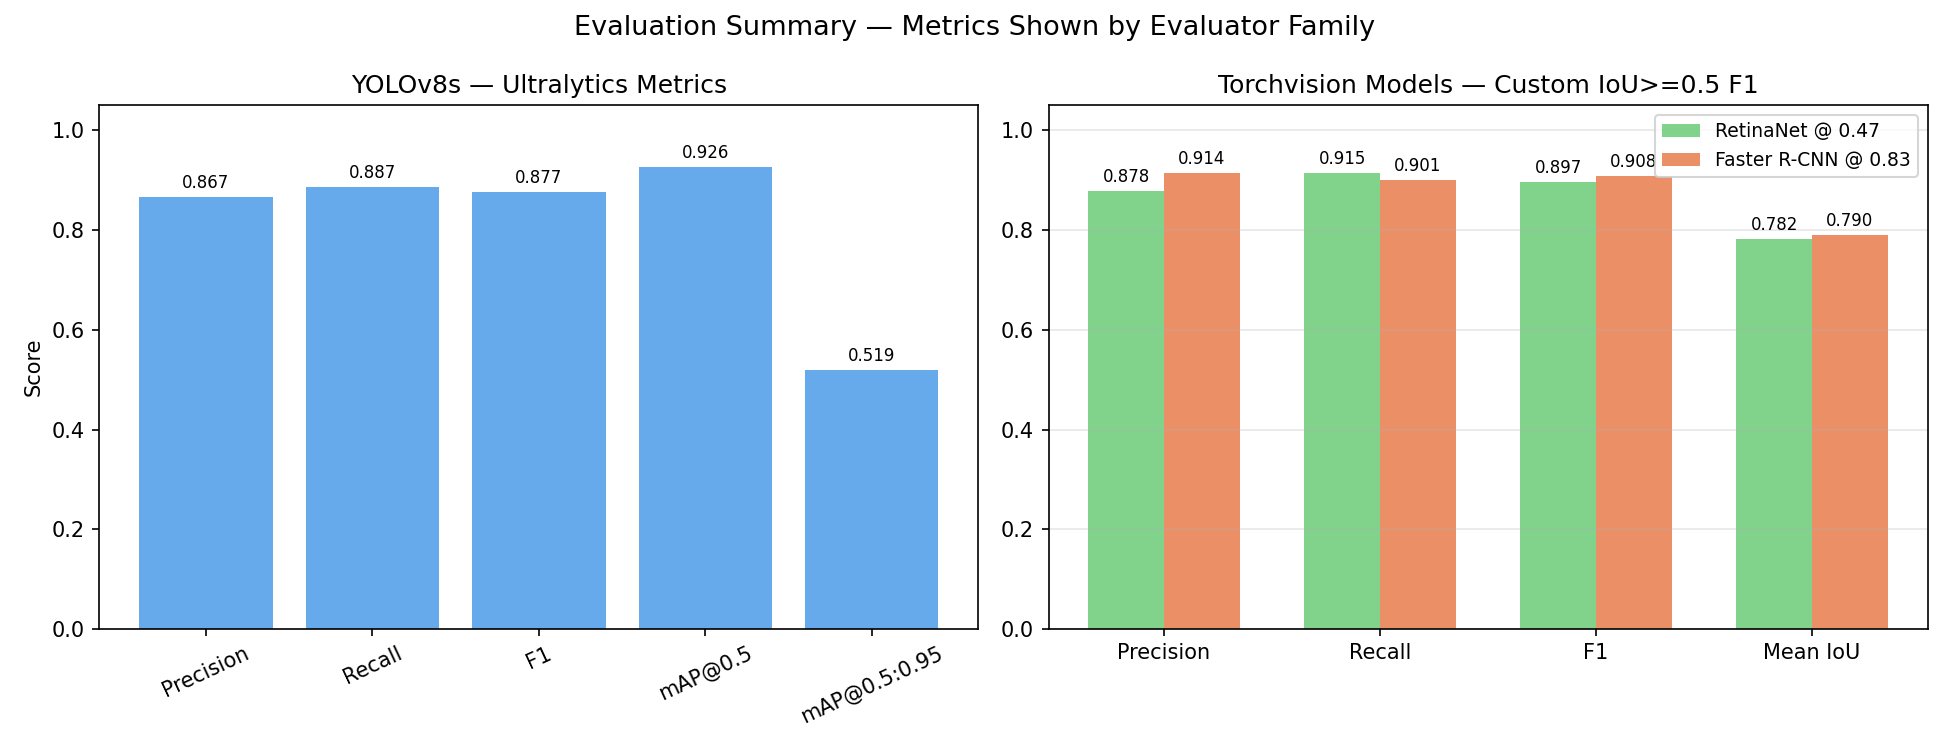
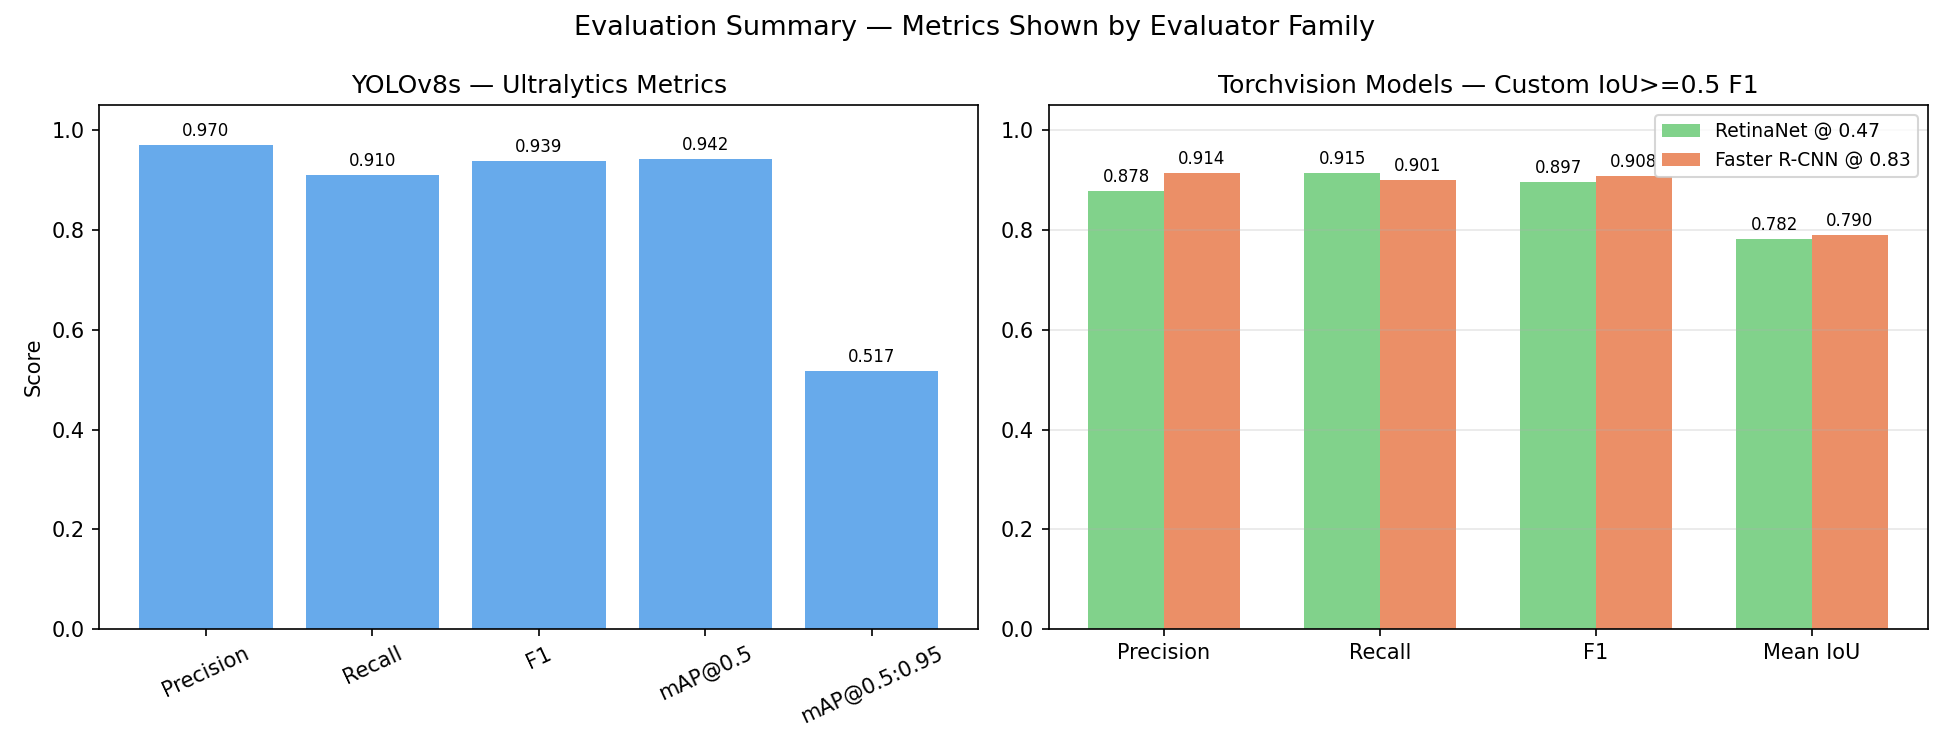
update yolo 960 evaluation results
Refresh README, notebook outputs, and metrics after retraining YOLOv8s at image size 960.

Made-with: Cursor

Changed region(s): [[0.0615, 0.1533, 0.4, 0.276], [0.4308, 0.46, 0.4615, 0.4907]]

diff --git a/README.md b/README.md
@@ -13,11 +13,11 @@ The strictest comparison path is `src/unified_evaluation.py`, which scores all t
 
 | Model | Val-Tuned Threshold | Test F1 | F1 95% CI | COCO AP | AP@0.5 | AP@0.75 | Mean IoU |
 |-------|---------------------|---------|-----------|---------|--------|---------|----------|
-| YOLOv8s | 0.6157 | 0.8741 | 0.8175-0.9291 | **0.5098** | 0.9164 | 0.5045 | 0.7947 |
-| Faster R-CNN ResNet50-FPN v2 | 0.8529 | **0.9000** | 0.8467-0.9496 | 0.4995 | **0.9602** | 0.4446 | **0.7941** |
+| YOLOv8s | 0.4798 | **0.9265** | 0.8806-0.9655 | **0.5114** | 0.9385 | 0.5187 | 0.7862 |
+| Faster R-CNN ResNet50-FPN v2 | 0.8529 | 0.9000 | 0.8467-0.9496 | 0.4995 | **0.9602** | 0.4446 | **0.7941** |
 | RetinaNet ResNet50-FPN v2 | 0.4745 | 0.8828 | 0.8219-0.9315 | 0.5075 | 0.9054 | **0.5547** | 0.7889 |
 
-Under this unified evaluator, all three models are close. Faster R-CNN has the strongest validation-tuned test F1 and AP@0.5, YOLOv8s has the highest overall COCO AP by a small margin, and RetinaNet has the best AP@0.75 localization. Because the test set is small and the F1 confidence intervals overlap, the differences should be interpreted cautiously rather than as a decisive win for one architecture.
+Under this unified evaluator, YOLOv8s is the strongest overall model after retraining at image size 960, with the best validation-tuned test F1 and COCO AP. Faster R-CNN still has the best AP@0.5, and RetinaNet has the best AP@0.75 localization. Because the test set is small and the F1 confidence intervals overlap, the differences should still be interpreted cautiously.
 
 ### Ultralytics YOLO Reference Metric
 
@@ -25,9 +25,9 @@ YOLOv8s also reports its native Ultralytics test metrics:
 
 | Model | Image Size | Precision | Recall | F1 | mAP@0.5 | mAP@0.5:0.95 |
 |-------|------------|-----------|--------|----|---------|--------------|
-| YOLOv8s | 960 | 0.8674 | 0.8873 | 0.8773 | 0.9265 | 0.5188 |
+| YOLOv8s | 960 | 0.9700 | 0.9103 | 0.9392 | 0.9418 | 0.5168 |
 
-The YOLO image-size experiment is configured at `YOLO_IMGSZ = 960`; retraining at this resolution is recommended before treating the 960 result as a final architecture comparison.
+The YOLO image-size experiment is configured at `YOLO_IMGSZ = 960`; the reported result uses YOLOv8s retrained at this resolution.
 
 ---
 
